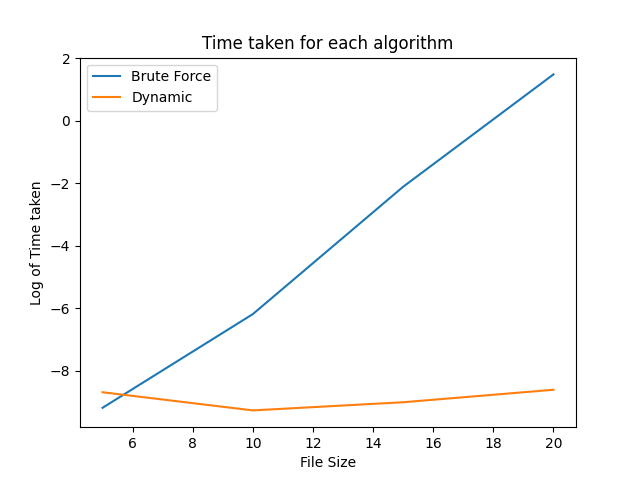
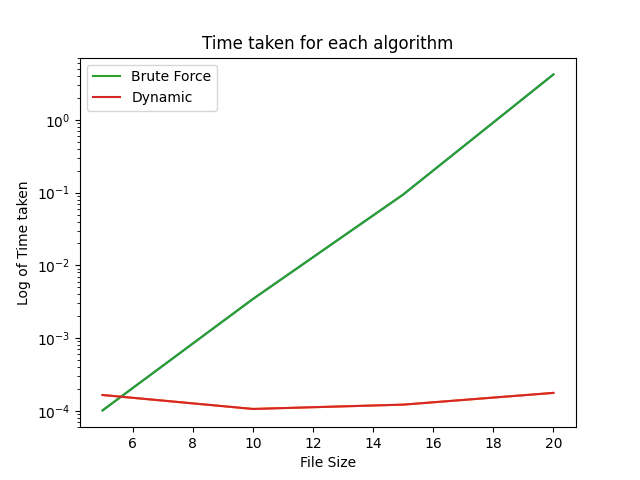
fixes

diff --git a/Code/comparisions.py b/Code/comparisions.py
@@ -64,16 +64,14 @@ def main():
     spf = []
     for i in range(len(resb)):
         spf.append(resb[i] / resd[i])
-    spf = np.log(spf)
 
-    resb = np.log(resb)
-    resd = np.log(resd)
-    # takes a log of the times
     files = [5,10,15,20]
     # sets the names
     names = ["Brute Force", "Dynamic"]
     
     # matplotlib function to plot the graphs with the time taken
+    plt.semilogy(files,resb)
+    plt.semilogy(files,resd)
     plt.plot(files,resb, label = names[0])
     plt.plot(files,resd, label = names[1])
     plt.title("Time taken for each algorithm")
@@ -86,7 +84,7 @@ def main():
 
     # matplotlib to plot the speedup factor
 
-    plt.bar(files,spf, color = ("Blue","Orange","Green","Purple"))
+    plt.bar(files,spf, color = ("Blue","Orange","Green","Purple"), log = True)
     plt.title("Speedup factor for the algorithms")
     plt.xlabel("File Size")
     plt.ylabel("Log of the speedup factor")
